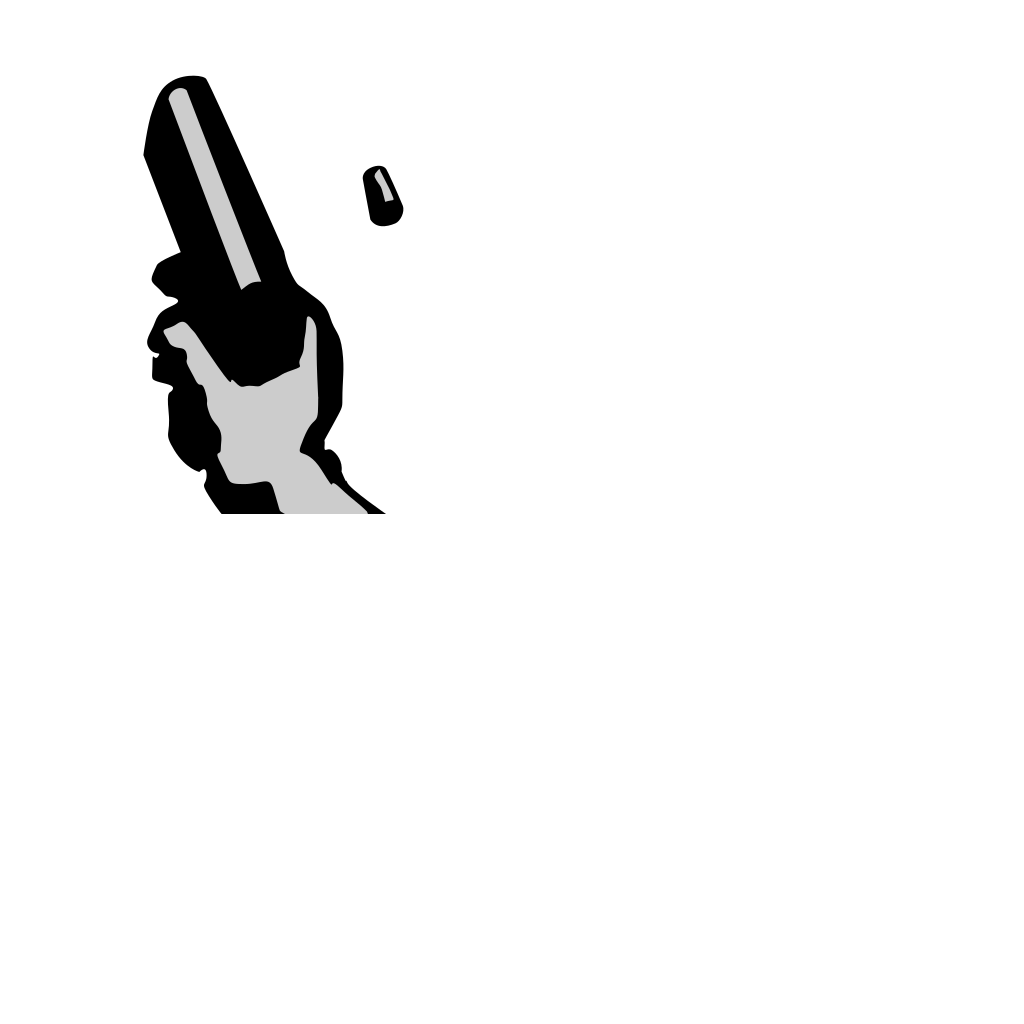
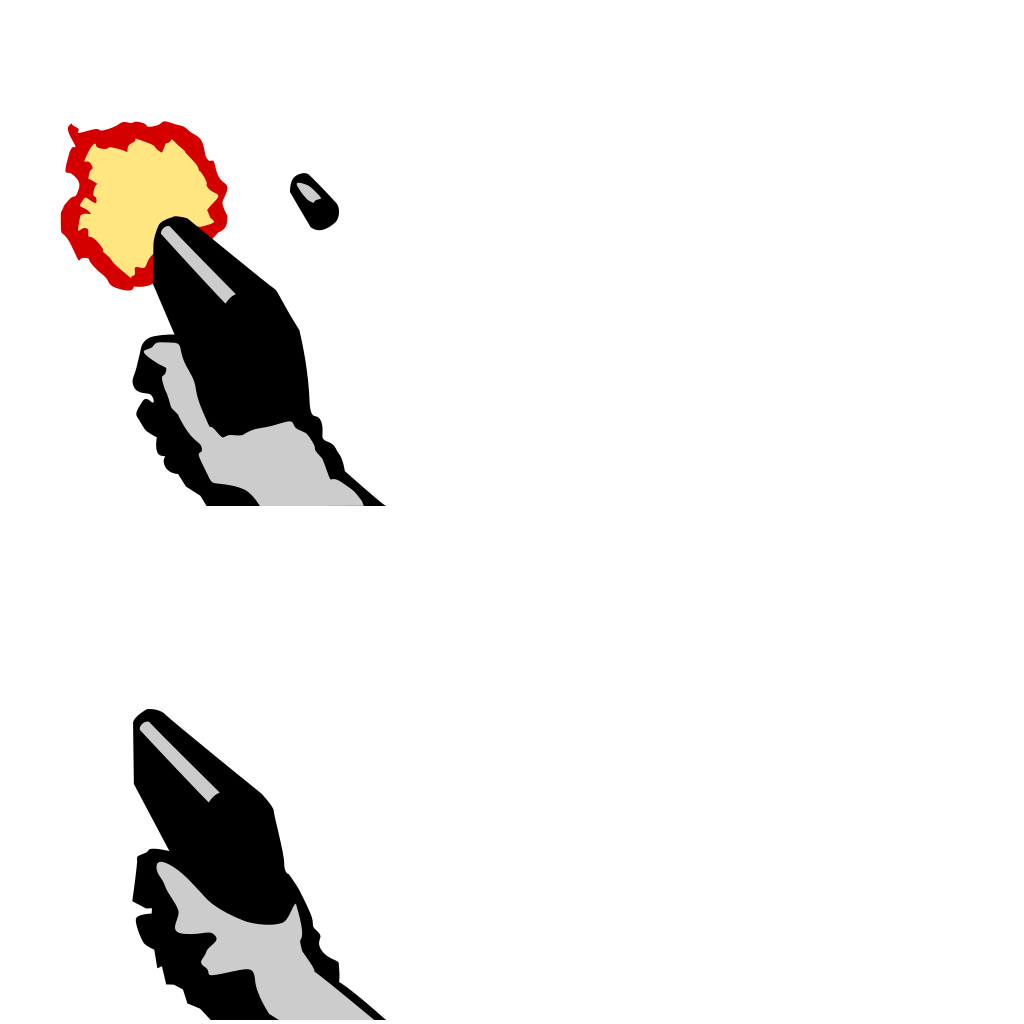
added a draft hud

Changed region(s): [[0.0625, 0.0625, 0.4062, 0.5], [0.125, 0.6875, 0.375, 1.0]]

diff --git a/source code/core/src/no/sandramoen/commanderqueen/actors/hud/HUD.java b/source code/core/src/no/sandramoen/commanderqueen/actors/hud/HUD.java
@@ -1,0 +1,61 @@
+package no.sandramoen.commanderqueen.actors.hud;
+
+import com.badlogic.gdx.Gdx;
+import com.badlogic.gdx.graphics.Color;
+import com.badlogic.gdx.scenes.scene2d.Stage;
+import com.badlogic.gdx.scenes.scene2d.ui.Label;
+
+import no.sandramoen.commanderqueen.actors.utils.BaseActor;
+import no.sandramoen.commanderqueen.utils.BaseGame;
+
+public class HUD extends BaseActor {
+    private Label armorLabel, healthLabel, ammoLabel, scoreLabel;
+    private int armor = 25, health = 100, ammo = 50, score = 0;
+    private float labelScale = 1.0f;
+
+    public Face face;
+
+    public HUD(Stage stage) {
+        super(0, 0, stage);
+        loadImage("hud/hud");
+        setWidth(Gdx.graphics.getWidth() * 1 / 3);
+        setSize(getWidth(), getWidth() / (5 / 1));
+        setPosition(Gdx.graphics.getWidth() * 1 / 2 - getWidth() / 2, 0f);
+
+        face = new Face(stage);
+
+        armorLabel = new Label(armor + "%", BaseGame.label26Style);
+        armorLabel.setFontScale(labelScale);
+        armorLabel.setColor(new Color(0.647f, 0.188f, 0.188f, 1f));
+        addActor(armorLabel);
+        armorLabel.setPosition(armorLabel.getWidth() / 4, getHeight() / 2 - armorLabel.getHeight() / 2);
+
+        healthLabel = new Label(health + "%", BaseGame.label26Style);
+        healthLabel.setFontScale(labelScale);
+        healthLabel.setColor(new Color(0.647f, 0.188f, 0.188f, 1f));
+        addActor(healthLabel);
+        healthLabel.setPosition(getWidth() * 1 / 5 + healthLabel.getWidth() / 4, getHeight() / 2 - healthLabel.getHeight() / 2);
+
+        ammoLabel = new Label(ammo + "", BaseGame.label26Style);
+        ammoLabel.setFontScale(labelScale);
+        ammoLabel.setColor(new Color(0.647f, 0.188f, 0.188f, 1f));
+        addActor(ammoLabel);
+        ammoLabel.setPosition(getWidth() * 3 / 5 + ammoLabel.getWidth() / 4, getHeight() / 2 - ammoLabel.getHeight() / 2);
+
+        scoreLabel = new Label(score + "", BaseGame.label26Style);
+        scoreLabel.setFontScale(labelScale);
+        scoreLabel.setColor(new Color(0.647f, 0.188f, 0.188f, 1f));
+        addActor(scoreLabel);
+        scoreLabel.setPosition(getWidth() * 4 / 5 + scoreLabel.getWidth() / 4, getHeight() / 2 - scoreLabel.getHeight() / 2);
+    }
+
+    public void useAmmo() {
+        ammo--;
+        ammoLabel.setText(ammo + "");
+    }
+
+    public void incrementScore(float amount) {
+        score += amount;
+        scoreLabel.setText(score + "");
+    }
+}

diff --git a/source code/core/src/no/sandramoen/commanderqueen/screens/LevelScreen.java b/source code/core/src/no/sandramoen/commanderqueen/screens/LevelScreen.java
@@ -11,8 +11,9 @@ import com.badlogic.gdx.math.collision.Ray;
 import com.badlogic.gdx.scenes.scene2d.ui.Label;
 import com.badlogic.gdx.utils.Array;
 
-import no.sandramoen.commanderqueen.actors.Ghoul;
-import no.sandramoen.commanderqueen.actors.Player;
+import no.sandramoen.commanderqueen.actors.hud.HUD;
+import no.sandramoen.commanderqueen.actors.characters.Ghoul;
+import no.sandramoen.commanderqueen.actors.characters.Player;
 import no.sandramoen.commanderqueen.actors.Tile;
 import no.sandramoen.commanderqueen.actors.Weapon;
 import no.sandramoen.commanderqueen.actors.utils.BaseActor3D;
@@ -24,6 +25,7 @@ import no.sandramoen.commanderqueen.utils.BaseScreen3D;
 public class LevelScreen extends BaseScreen3D {
     private Player player;
     private Weapon weapon;
+    private HUD hud;
     private Array<Tile> tiles;
     private Array<Enemy> enemies;
 
@@ -69,6 +71,7 @@ public class LevelScreen extends BaseScreen3D {
         if (button == Input.Buttons.LEFT && !isGameOver) {
             player.shoot();
             weapon.shoot();
+            hud.useAmmo();
             int index = rayPickBaseActor3DFromList(Gdx.graphics.getWidth() / 2, Gdx.graphics.getHeight() / 2, shootable);
             determineConsequencesOfPick(index);
         }
@@ -95,6 +98,8 @@ public class LevelScreen extends BaseScreen3D {
                 Ghoul ghoul = (Ghoul) shootable.get(index);
                 ghoul.die();
                 shootable.removeIndex(index);
+                hud.incrementScore(10);
+                hud.face.happy();
             }
         }
     }
@@ -133,6 +138,8 @@ public class LevelScreen extends BaseScreen3D {
     }
 
     private void initializeActors() {
+        hud = new HUD(uiStage);
+        weapon = new Weapon(uiStage);
         initializeTiles();
         initializePlayer();
         initializeEnemies();
@@ -162,7 +169,7 @@ public class LevelScreen extends BaseScreen3D {
         float playerX = (float) startPoint.getProperties().get("x") * BaseGame.unitScale;
         float playerY = (float) startPoint.getProperties().get("y") * BaseGame.unitScale;
         player = new Player(playerX, playerY, mainStage3D);
-        weapon = new Weapon(uiStage);
+
     }
 
     private void initializeEnemies() {

diff --git a/source code/core/src/no/sandramoen/commanderqueen/actors/hud/Face.java b/source code/core/src/no/sandramoen/commanderqueen/actors/hud/Face.java
@@ -1,0 +1,51 @@
+package no.sandramoen.commanderqueen.actors.hud;
+
+import com.badlogic.gdx.Gdx;
+import com.badlogic.gdx.graphics.g2d.Animation;
+import com.badlogic.gdx.graphics.g2d.TextureAtlas;
+import com.badlogic.gdx.graphics.g2d.TextureRegion;
+import com.badlogic.gdx.scenes.scene2d.Stage;
+import com.badlogic.gdx.scenes.scene2d.actions.Actions;
+import com.badlogic.gdx.utils.Array;
+
+import no.sandramoen.commanderqueen.actors.utils.BaseActor;
+import no.sandramoen.commanderqueen.utils.BaseGame;
+
+public class Face extends BaseActor {
+    private Animation<TextureRegion> idleAnimation;
+
+    public Face(Stage stage) {
+        super(0, 0, stage);
+
+        Array<TextureAtlas.AtlasRegion> animationImages = new Array();
+        for (int i = 0; i < 20; i++)
+            animationImages.add(BaseGame.textureAtlas.findRegion("hud/face idle 1"));
+        animationImages.add(BaseGame.textureAtlas.findRegion("hud/face idle 2"));
+        idleAnimation = new Animation(.1f, animationImages, Animation.PlayMode.LOOP);
+        setAnimation(idleAnimation);
+        animationImages.clear();
+
+        setDimensions();
+    }
+
+    public void happy() {
+        loadImage("hud/face happy");
+        setDimensions();
+        addAction(Actions.sequence(
+                Actions.delay(1f),
+                Actions.run(new Runnable() {
+                    @Override
+                    public void run() {
+                        setAnimation(idleAnimation);
+                        setDimensions();
+                    }
+                })
+        ));
+    }
+
+    private void setDimensions() {
+        setWidth(Gdx.graphics.getWidth() * 1 / 3);
+        setSize(getWidth(), getWidth() / (5 / 1));
+        setPosition(Gdx.graphics.getWidth() * 1 / 2 - getWidth() / 2, 0f);
+    }
+}

diff --git a/source code/core/src/no/sandramoen/commanderqueen/actors/Weapon.java b/source code/core/src/no/sandramoen/commanderqueen/actors/Weapon.java
@@ -20,11 +20,10 @@ public class Weapon extends BaseActor {
     private float totalTime = 5f;
     private float swayFrequency = .5f;
     private float swayAmount = .01f;
-    private Vector2 restPosition = new Vector2(Gdx.graphics.getWidth() / 2 - getWidth() / 2, -Gdx.graphics.getHeight() * swayAmount);
+    private Vector2 restPosition = new Vector2(Gdx.graphics.getWidth() * 3 / 5 - getWidth() / 2, -Gdx.graphics.getHeight() * swayAmount);
 
     public Weapon(Stage stage) {
         super(0, 0, stage);
-        setPosition(restPosition.x, restPosition.y);
 
         Array<TextureAtlas.AtlasRegion> animationImages = new Array();
         animationImages.add(BaseGame.textureAtlas.findRegion("player/shooting 1"));
@@ -33,6 +32,10 @@ public class Weapon extends BaseActor {
         animationImages.add(BaseGame.textureAtlas.findRegion("player/shooting 0"));
         shootAnimation = new Animation(.1f, animationImages, Animation.PlayMode.NORMAL);
         animationImages.clear();
+
+        setWidth(Gdx.graphics.getWidth() * .25f);
+        setSize(getWidth(), getWidth() / BaseGame.aspectRatio);
+        setPosition(restPosition.x, restPosition.y);
     }
 
     @Override
@@ -45,7 +48,7 @@ public class Weapon extends BaseActor {
         super.draw(batch, parentAlpha);
         if (totalTime < 10f)
             totalTime += Gdx.graphics.getDeltaTime();
-        batch.draw(shootAnimation.getKeyFrame(totalTime), getX(), getY());
+        batch.draw(shootAnimation.getKeyFrame(totalTime), getX(), getY(), getWidth(), getHeight());
     }
 
     public void shoot() {

diff --git a/source code/core/src/no/sandramoen/commanderqueen/utils/Stage3D.java b/source code/core/src/no/sandramoen/commanderqueen/utils/Stage3D.java
@@ -29,7 +29,7 @@ public class Stage3D {
         environment.set(new ColorAttribute(ColorAttribute.AmbientLight, 0.7f, 0.7f, 0.7f, 1f));
 
         DirectionalLight dLight = new DirectionalLight();
-        Color lightColor = new Color(0.9f, 0.9f, 0.9f, 1);
+        Color lightColor = new Color(0.8f, 0.8f, 0.9f, 1);
         Vector3 lightVector = new Vector3(-1.0f, -0.75f, -0.25f);
         dLight.set(lightColor, lightVector);
         environment.add(dLight);

diff --git a/source code/core/src/no/sandramoen/commanderqueen/utils/BaseGame.java b/source code/core/src/no/sandramoen/commanderqueen/utils/BaseGame.java
@@ -31,6 +31,7 @@ public abstract class BaseGame extends Game implements AssetErrorListener {
     // game state
     public static float mouseMovementSensitivity = .05f;
     public static boolean isHeadBobbing = true;
+    public static float aspectRatio = 16 / 9;
     public static float voiceVolume = 1f;
     public static float soundVolume = .5f;
     public static float musicVolume = .7f;

diff --git a/source code/core/src/no/sandramoen/commanderqueen/utils/GameUtils.java b/source code/core/src/no/sandramoen/commanderqueen/utils/GameUtils.java
@@ -3,7 +3,7 @@ package no.sandramoen.commanderqueen.utils;
 import com.badlogic.gdx.audio.Music;
 import com.badlogic.gdx.math.MathUtils;
 
-import no.sandramoen.commanderqueen.actors.Player;
+import no.sandramoen.commanderqueen.actors.characters.Player;
 import no.sandramoen.commanderqueen.actors.Tile;
 import no.sandramoen.commanderqueen.actors.utils.BaseActor3D;
 

diff --git a/source code/core/src/no/sandramoen/commanderqueen/actors/utils/Enemy.java b/source code/core/src/no/sandramoen/commanderqueen/actors/utils/Enemy.java
@@ -1,6 +1,6 @@
 package no.sandramoen.commanderqueen.actors.utils;
 
-import no.sandramoen.commanderqueen.actors.Player;
+import no.sandramoen.commanderqueen.actors.characters.Player;
 import no.sandramoen.commanderqueen.utils.GameUtils;
 import no.sandramoen.commanderqueen.utils.Stage3D;
 

diff --git a/source code/desktop/src/no/sandramoen/commanderqueen/DesktopLauncher.java b/source code/desktop/src/no/sandramoen/commanderqueen/DesktopLauncher.java
@@ -22,6 +22,7 @@ public class DesktopLauncher {
 		float aspectRatio = 16 / 9f;
 		int height = (int) (width / aspectRatio);
 
+		System.out.println("Window dimensions => width: " + width + ", height: " + height);
 		config.setWindowedMode(width, height);
 	}
 }

diff --git a/source code/core/src/no/sandramoen/commanderqueen/actors/characters/Ghoul.java b/source code/core/src/no/sandramoen/commanderqueen/actors/characters/Ghoul.java
@@ -1,4 +1,4 @@
-package no.sandramoen.commanderqueen.actors;
+package no.sandramoen.commanderqueen.actors.characters;
 
 import com.badlogic.gdx.Gdx;
 import com.badlogic.gdx.graphics.g2d.Animation;

diff --git a/source code/core/src/no/sandramoen/commanderqueen/actors/characters/Player.java b/source code/core/src/no/sandramoen/commanderqueen/actors/characters/Player.java
@@ -1,4 +1,4 @@
-package no.sandramoen.commanderqueen.actors;
+package no.sandramoen.commanderqueen.actors.characters;
 
 import com.badlogic.gdx.Gdx;
 import com.badlogic.gdx.Input;
